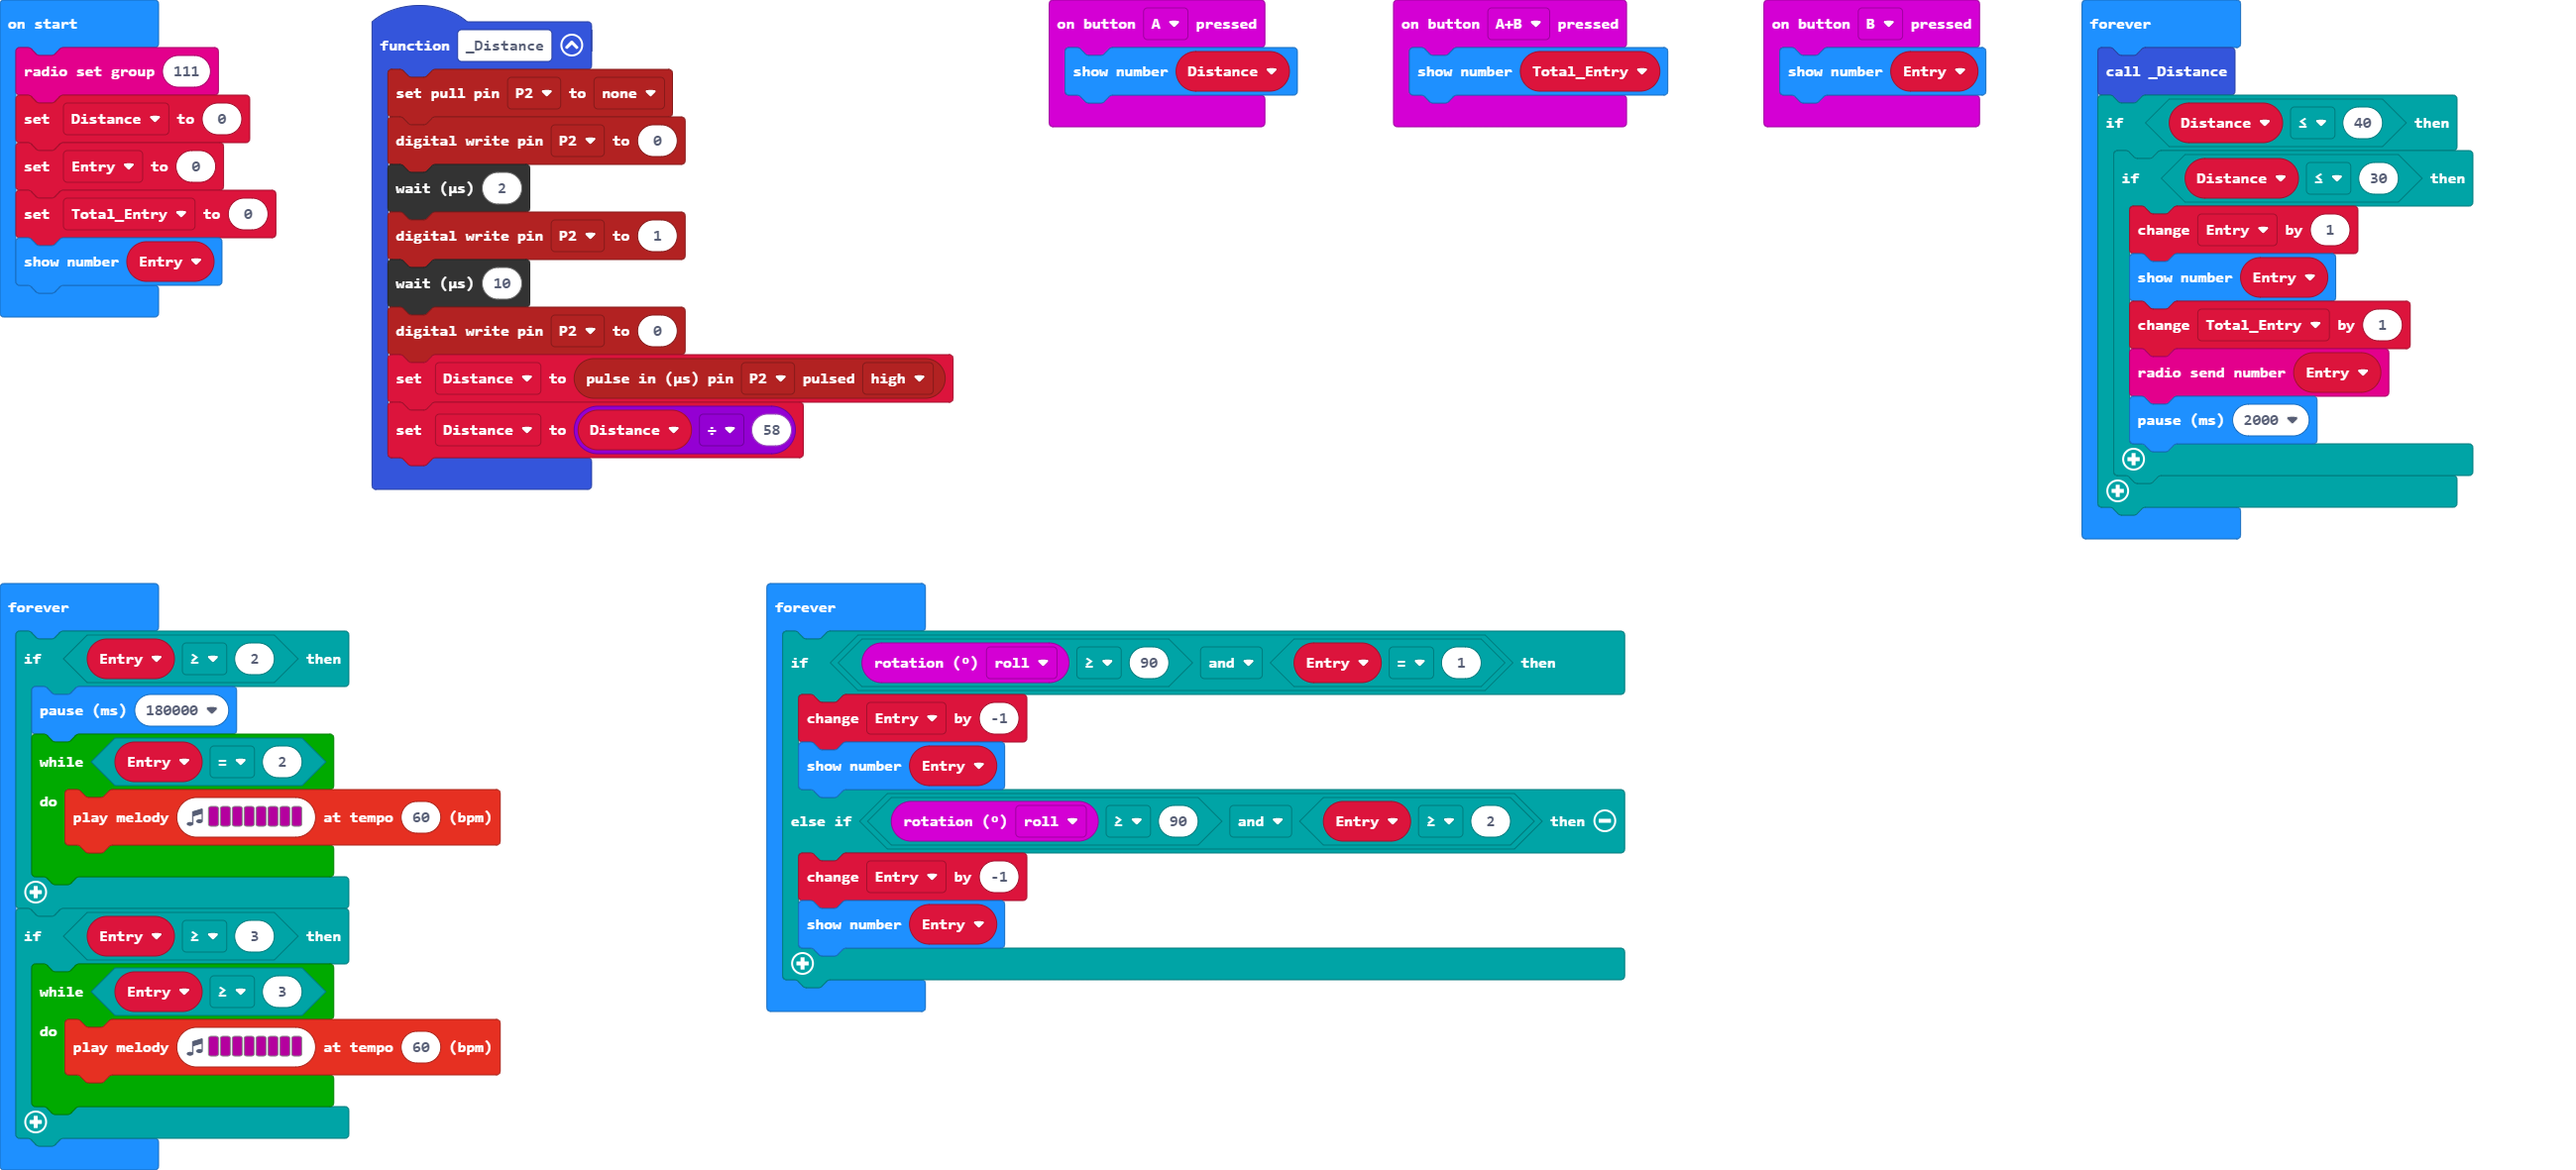
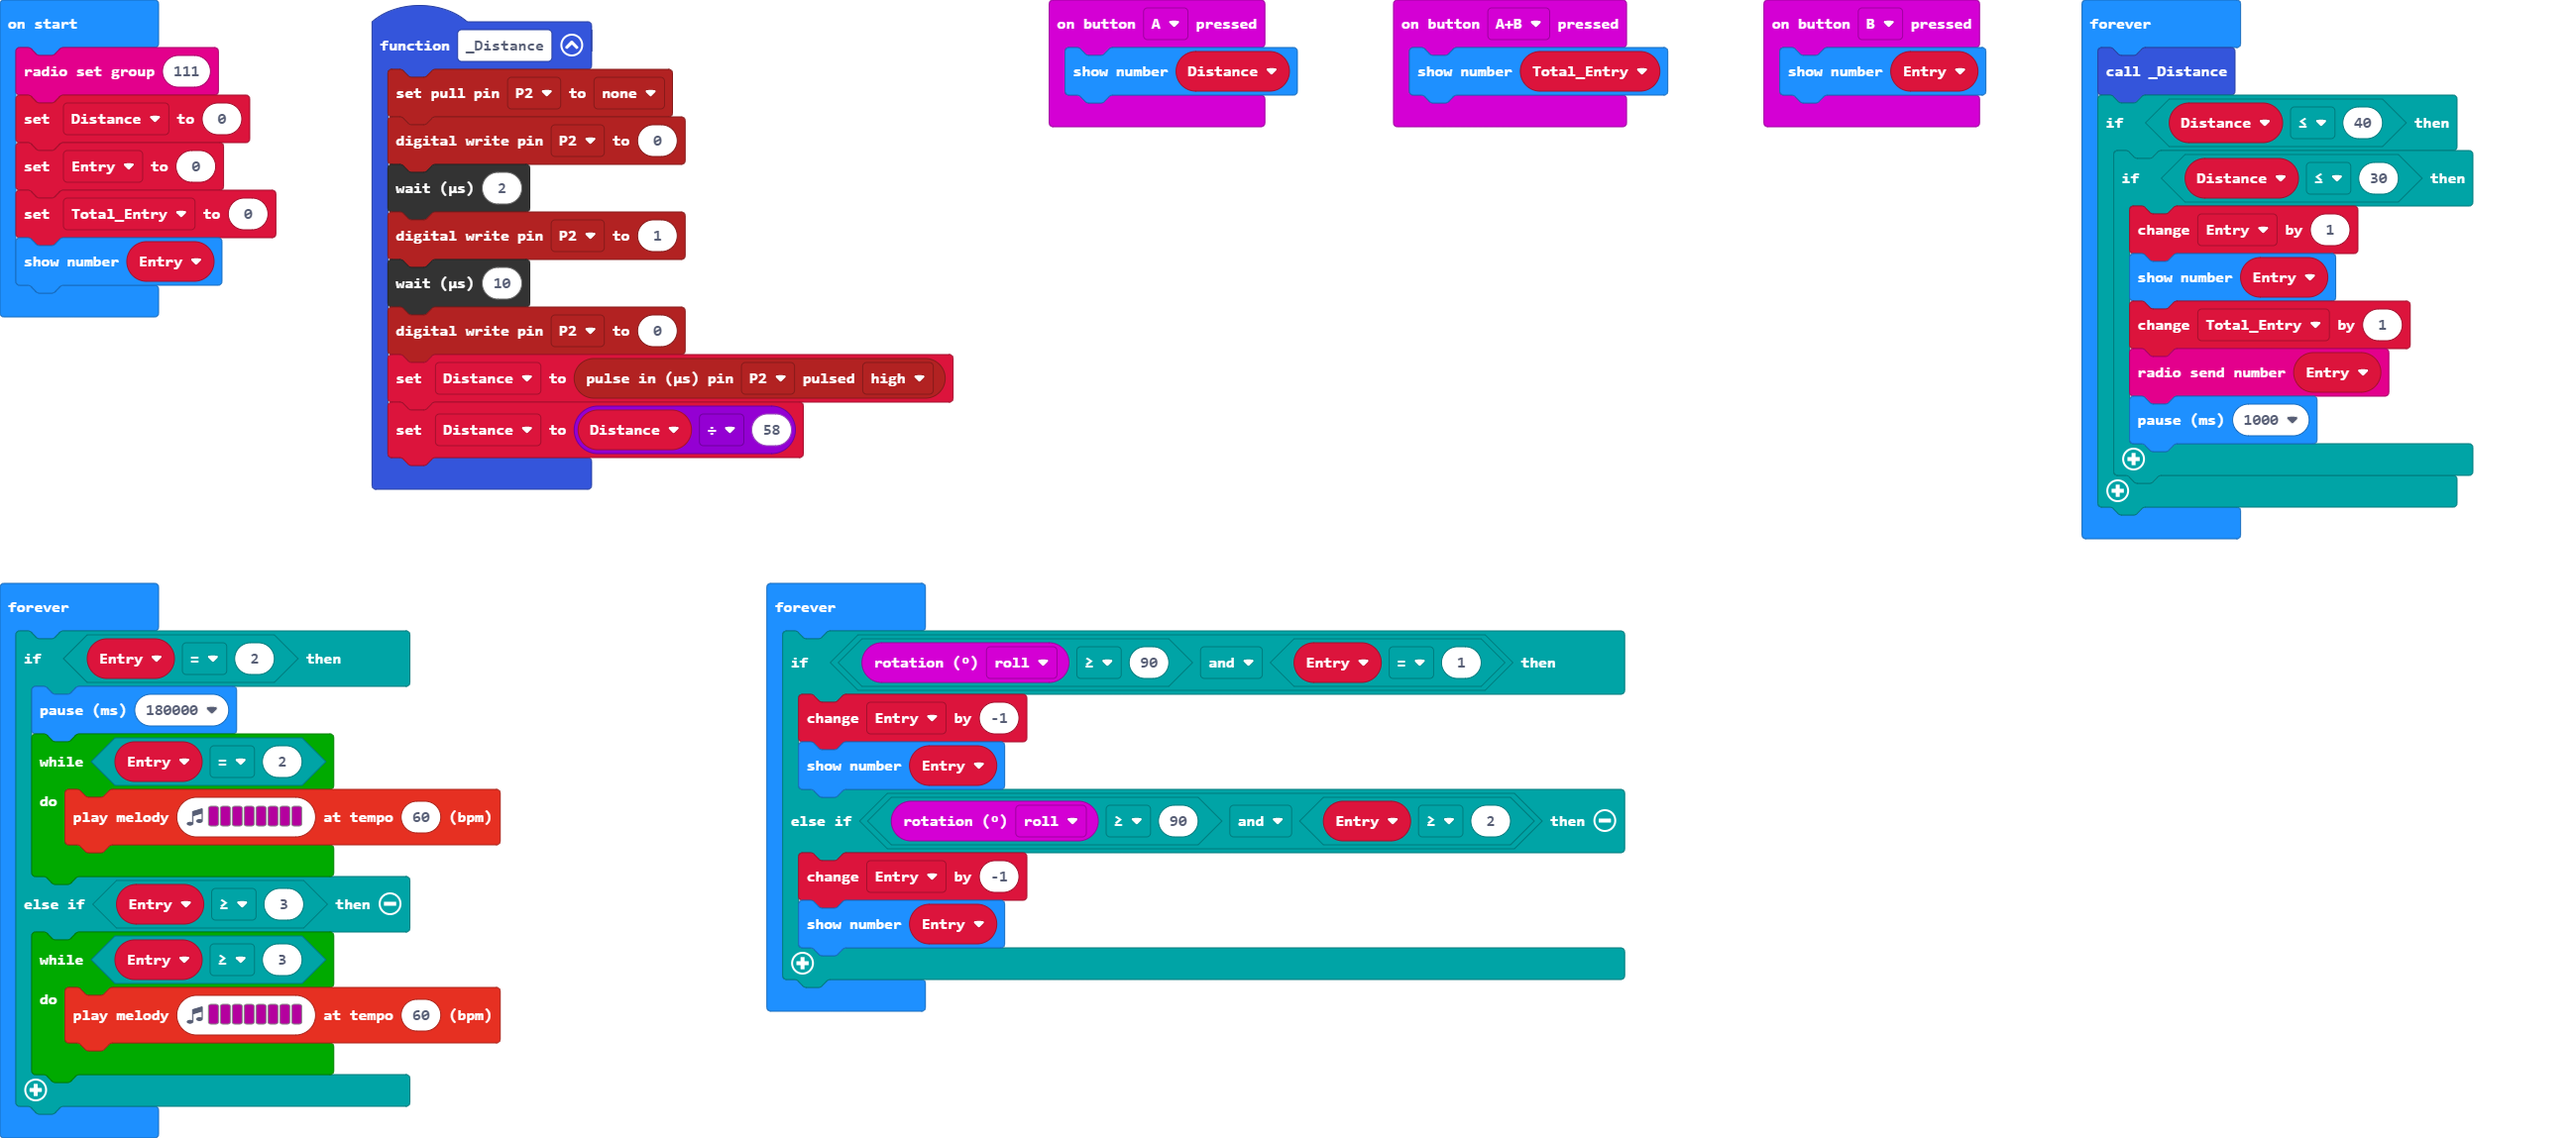
Update main.blocks, main.ts

diff --git a/main.ts b/main.ts
@@ -33,18 +33,17 @@ basic.forever(function () {
             basic.showNumber(Entry)
             Total_Entry += 1
             radio.sendNumber(Entry)
-            basic.pause(2000)
+            basic.pause(1000)
         }
     }
 })
 basic.forever(function () {
-    if (Entry >= 2) {
+    if (Entry == 2) {
         basic.pause(180000)
         while (Entry == 2) {
             music.playMelody("C C C C C C C C ", 60)
         }
-    }
-    if (Entry >= 3) {
+    } else if (Entry >= 3) {
         while (Entry >= 3) {
             music.playMelody("C C C C C C C C ", 60)
         }
